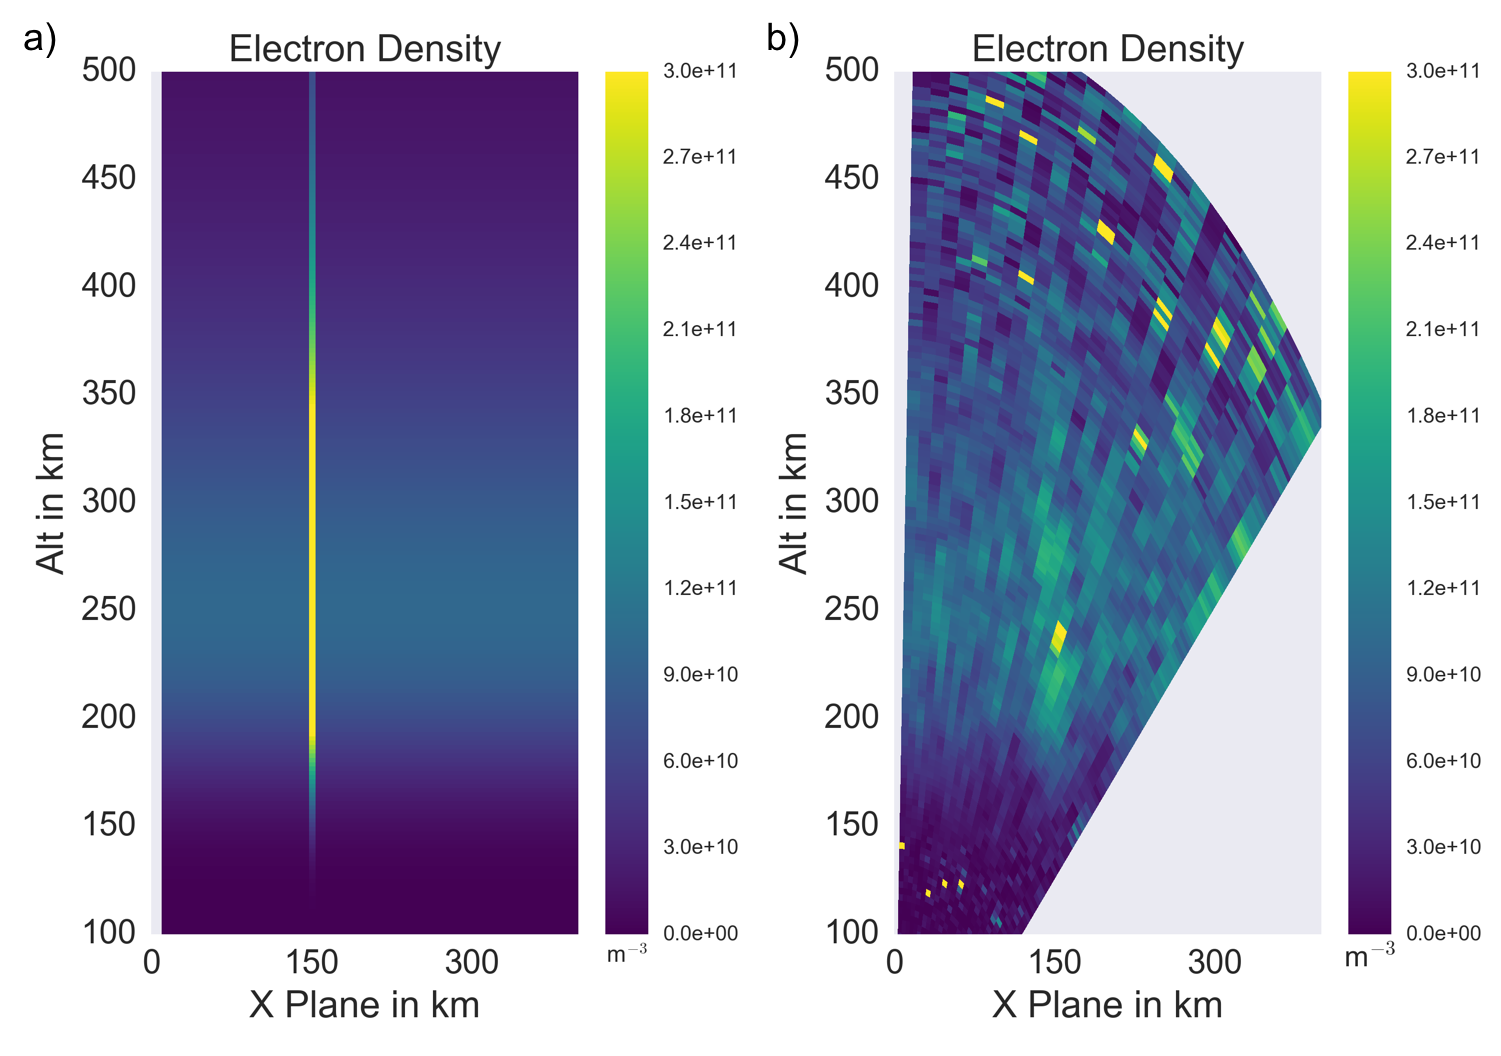
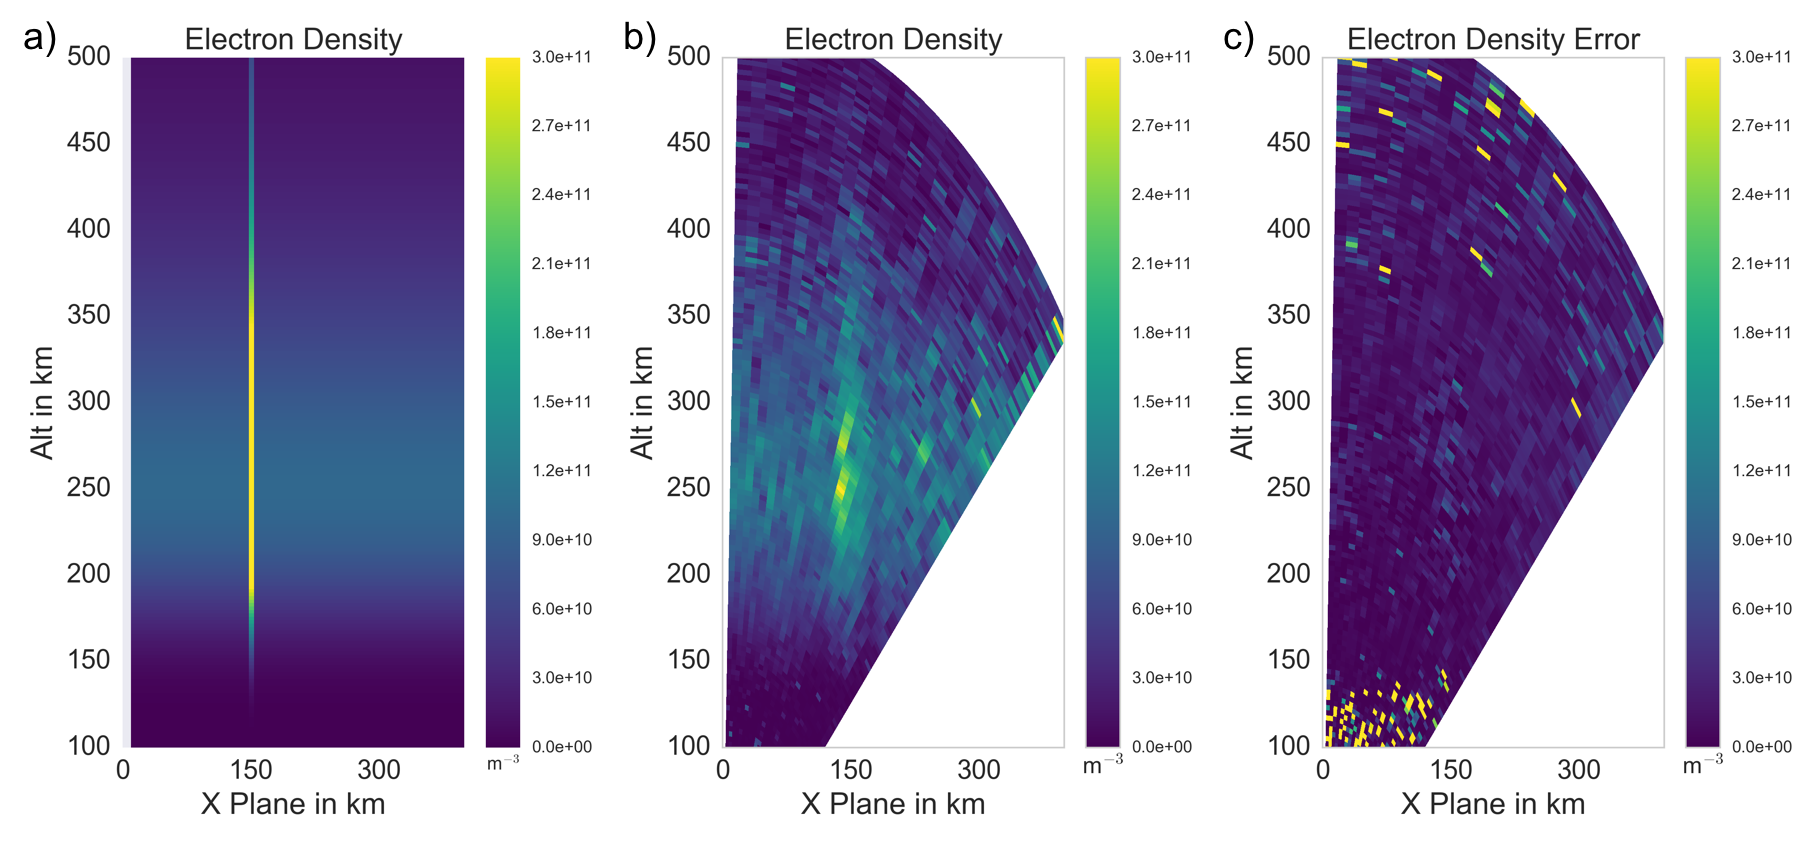
Got through initial comments

diff --git a/ISRError.tex b/ISRError.tex
@@ -499,15 +499,15 @@ An important aspect of experiment design is determining the observability of pla
 
 \begin{figure}[!t]
 \centering
-\includegraphics[width=6in]{backgroundandsamp}
+\includegraphics[width=4in]{backgroundandsamp}
 \caption{Contour of background $N_e$ for simulations and the spatial sampling pattern}
 \label{fig:background1}
 \end{figure}
 
 %For these simulations we want to show how ambiguities could arise when trying to image just simple electron density enhancements with the beam pattern shown in the right panel of Figure \ref{fig:background1},
-For these simulations we explore how a thin density enhancement is resolved with a radar beam pattern shown in the right panel of Figure \ref{fig:background1}, where each dot is a range gate in one of the 25 beams used. This thin density enhancement is 2 km in width and enhances the density by 5 times the background at its altitude. The enhancement is at the resolution limit of the original Cartesian grid, a delta function in the x direction. The results of a single realization of our simulation are seen in Figure \ref{fig:stationaryall} using a 15 second and 60 second integration time, 60 and 240 pulses per position respectively. The different integration times show that, although the enhancement is blurred, the variance of the measurement can impact the quality of the reconstruction because of the inherent noise quality of the signal.
+For these simulations we explore how a thin density enhancement is resolved with a radar beam pattern shown in the right panel of Figure \ref{fig:background1}, where each dot is a range gate in one of the 25 beams used. This thin density enhancement is 2 km in width and enhances the density by 5 times the background at its altitude. The enhancement is at the resolution limit of the original Cartesian grid, a delta function in the x direction. The results of a single realization of our simulation are seen in Figure \ref{fig:stationaryall} using a 15 second and 60 second integration time, 60 and 240 pulses per position respectively. The different integration times show that, although the enhancement is blurred, the variance of the measurement can impact the quality of the reconstruction because of the inherent noise quality of the signal. The expected errors for both of the reconstructions can be seen in \ref{fig:errorstationaryall}. As expected the estimated errors show the uncertainties for the case with less pulses to be larger. 
 
-{\bf JOHN: you need to quantify the variance for Fig 7b and 7c.  Does it scale as expected given the known pulse counts J?  In other words, could I have predicted this without the simulator just using eq (9) for example as my knowledge of covariance?  Is the simulator telling us something new here?  What is it?  Are the results here totally dependent on this particular case study, or can you generalize at all?}
+Because we know the input parameters we can do a quick comparison using the root mean squared error (RMSE) for each case. If we comparing the RMSE between the 15 and 60 second integration cases we find that the ratio between the two is approximately 5.40. The expect RMSE ratio between the two should be about 2 because the variance of the ACFs scales as $1/\sqrt{J}$, where $J$ is the number of pulses. If we instead median instead of a mean operator in the error calculation this ratio becomes 1.55 which is some what more in line with what is expected.
 
 \begin{figure}[!t]
 \centering
@@ -516,22 +516,19 @@ For these simulations we explore how a thin density enhancement is resolved with
 \label{fig:stationaryall}
 \end{figure}
 
-The blurring effect seen in this case study is not constant throughout the space due to the way the radar samples the space. This is illustrated in Figures \ref{fig:moving10mins} and \ref{fig:moving14mins}, where as the enhancement moves through the scene, its apparent size is affected by the orientation of the radar beams. As the enhancement becomes parallel to the radar beams then the shape in the reconstruction becomes smaller along the x-axis, as the range ambiguity is much larger than the cross range ambiguity from the beam pattern. To see the input and output electron density change with time see Movies S1 and S2.
-
-In
-
 \begin{figure}[!t]
 \centering
-\includegraphics[width=5in]{Errorstationary}
-\caption{Standard deviations from Figure \ref{fig:stationaryall} calculated in two different ways. a)  Estimate from fit for 15 second integration example. b) Estimate from fit for 60 second integration example. c) Estimate from sample variance calculation for 15 second integration example. d) Estimate from sample variance calculation for 60 second integration example.}
+\includegraphics[width=4in]{Errorstationary}
+\caption{Standard deviations from Figure \ref{fig:stationaryall}. a)  Estimate from fit for 15 second integration example. b) Estimate from fit for 60 second integration example.}
 \label{fig:errorstationaryall}
 \end{figure}
 
+The blurring effect seen in this case study is not constant throughout the space due to the way the radar samples the space. This is illustrated in Figures \ref{fig:moving10mins} and \ref{fig:moving14mins}, where as the enhancement moves through the scene, its apparent size is affected by the orientation of the radar beams. As the enhancement becomes parallel to the radar beams then the shape in the reconstruction becomes smaller along the x-axis, as the range ambiguity is much larger than the cross range ambiguity from the beam pattern. To see the input and output electron density change with time see Movies S1 and S2.
 
 \begin{figure}[!t]
 \centering
 \includegraphics[width=6in]{moving6mins}
-\caption{Results of moving enhancement simulation at 600 seconds. a) Input $N_e$. b) Output of simulator with 60 second integration.}
+\caption{Results of moving enhancement simulation at 600 seconds. a) Input $N_e$. b) Output of simulator with 60 second integration. c) Estimated errors from fit.}
 \label{fig:moving10mins}
 \end{figure}
 
@@ -539,32 +536,30 @@ In
 \begin{figure}[!t]
 \centering
 \includegraphics[width=6in]{moving14mins}
-\caption{Results of moving enhancement simulation at 840 seconds. a) Input $N_e$. b) Output of simulator with 60 second integration.}
+\caption{Results of moving enhancement simulation at 840 seconds. a) Input $N_e$. b) Output of simulator with 60 second integration. c) Estimated errors from fit.}
 \label{fig:moving14mins}
 \end{figure}
 
 This change in the shape of the enhancement can give the impression that its morphology has developed as it was moving through the field of view of the radar. This could lead to an incorrect interpretation of the physical process taking place. Thus one must be careful when analyzing these sorts of reconstructions.
 
-Lastly, for this type of simulation, we show an example to demonstrate the situation where a set of two different input parameters can yield qualitatively similar results. For these cases we create electron density enhancements similar in size as what is seen in \citet{Semeter:2005fo} from a poleward boundary intensification event. The inputs can be seen in Figure \ref{fig:moving1018in} which have enhancements of 10 km width and 18 km width. The enhancement in the 10 km width example is 6 times higher than the background while the 18 km width enhancement is 3 times higher than the background. Looking at the fitted data in Figure \ref{fig:moving1018fit} \pcom{weak - strengthen the statement}{one can see that they seem rather similar} and its difficult to disambiguate the actual sizes of the enhancements. For the full input electron density changing with time for the 10 km example with time see Movie S3 and for the fitted data S4. The 18 km case can be seen in Movies S5 and S6 for input and fitted parameters respectively.  
-
-{\bf JOHN: again, you need to quantify expected variance here so that the reader is convinced something real is happening.  All these statements are qualitative.  It would also be good to have more conclusions so the reader can judge the value of this simulator to provide information - i.e. would I have been able to see this feature without ISR's statistical nature?  How much do these case results depend on radar beam sampling, and how much do they depend on ISR statistical behavior? I haven't edited the language as much above since it will likely change given these needs.}
+Lastly, for this type of simulation, we show an example to demonstrate the situation where a set of two different input parameters can yield qualitatively similar results. For these cases we create electron density enhancements similar in size as what is seen in \citet{Semeter:2005fo} from a poleward boundary intensification event. The inputs can be seen in Figure \ref{fig:moving10all} which have enhancements of 10 km width and 18 km width. The enhancement in the 10 km width example is 6 times higher than the background while the 18 km width enhancement is 3 times higher than the background. Looking at the fitted data in Figure \ref{fig:moving18all} \pcom{weak - strengthen the statement}{one can see that they seem rather similar} and its difficult to disambiguate the actual sizes of the enhancements. For the full input electron density changing with time for the 10 km example with time see Movie S3 and for the fitted data S4. The 18 km case can be seen in Movies S5 and S6 for input and fitted parameters respectively.  
 
 \begin{figure}[!t]
 \centering
-\includegraphics[width=6in]{moving10km18kminputs}
-\caption{Input $N_e$ for moving enhancement simulation at 480 seconds. a) 10 km wide enhancement. b) 18 km wide enhancement.}
-\label{fig:moving1018in}
+\includegraphics[width=6in]{moving10kminouterr}
+\caption{10 km wide enhancement moving simulation at 480 seconds. a) Input $N_e$. a)  b) Fitted $N_e$ with 60 second integration. c) Estimated error from fit.}
+\label{fig:moving10all}
 \end{figure}
 
 \begin{figure}[!t]
 \centering
-\includegraphics[width=6in]{moving10km18kmoutputs}
-\caption{Results of moving enhancement simulation at 480 seconds with 60 second integration. a) 10 km wide enhancement. b) 18 km wide enhancement.}
-\label{fig:moving1018fit}
+\includegraphics[width=6in]{moving18kminouterr}
+\caption{18 km wide enhancement moving simulation at 480 seconds. a) Input $N_e$. a)  b) Fitted $N_e$ with 60 second integration. c) Estimated error from fit.}
+\label{fig:moving18all}
 \end{figure}
 
 \subsection{Full Parameter Experiment}
-Finally, plasma parameters derived from a multi-fluid model developed in \cite{semeter:plasmatransport2012} are used to drive the simulator. The specific example was originally used in \cite{Perry:2015jf} and was designed for comparison to  measurements from \pcom{acronym defined?}{RISR-N}. Images of the plasma parameters can be seen in Figures \ref{fig:plparamst0} and \ref{fig:plparamst60}. These enhancements in electron density, temperature and ion temperature are caused by an auroral arc created from a Region 1 field aligned current system of amplitude .875 $\mu$A/m$^2$, which moves through the field of view at 200 m/s.
+Finally, plasma parameters derived from a multi-fluid model developed in \cite{semeter:plasmatransport2012} are used to drive the simulator. The specific example was originally used in \cite{Perry:2015jf} and was designed for comparison to measurements from the Resolute Bay Incoherent Scatter Radar. Images of the plasma parameters can be seen in Figures \ref{fig:plparamst0} and \ref{fig:plparamst60}. These enhancements in electron density, temperature and ion temperature are caused by an auroral arc created from a Region 1 field aligned current system of amplitude .875 $\mu$A/m$^2$, which moves through the field of view at 200 m/s.
 
 
 
@@ -584,20 +579,11 @@ Finally, plasma parameters derived from a multi-fluid model developed in \cite{s
 
 Using a beam pattern similar to the one seen in the right panel of Figure \ref{fig:background1}, we use the ISR simulator to explore how an electronically scanned ISR may reconstruct the scene. This a best case condition, as we have apriori knowledge of the plane that the arc is traveling in, and have set up the radar spatial beam pattern for the experiment to take advantage of this knowledge. This feature reduces the number of radar beams and required integration time to gain the desired statistics. 
 
-\pcom{I would plot the composition curve!}{It is also assumed that the ratios between ion species are known.} \pcom{see comment below - reword.}{This is a common practice in ISR fitting as allowing the ratios to be free parameters allows for non-unique solutions.} If the fixed, apriori assumed composition ratios between the different ion species are incorrect, this can lead to errors in the final parameter estimates. For the lower F region ionosphere, generally this usually leads to errors between 150-250 km where the ionosphere changes from NO$^+$ dominated to O$^+$ dominated. \pcom{awkward - reword}{This issue does come into play in this case, chemical recombination is cited as an effect in \citet{Perry:2015jf} and could be impacting the final parameter fitting. \citep{Zettergren:2011ej, Blelly:2010gf}}
+It is also assumed that the ratios between ion species are known. This is a common practice in ISR fitting as allowing the ratios to be free parameters can allow for non-unique solutions depending on the ion species that are present. If the fixed, apriori assumed composition ratios between the different ion species are incorrect, this can lead to errors in the final parameter estimates. For the lower F region ionosphere, generally this usually leads to errors between 150-250 km where the ionosphere changes from NO$^+$ dominated to O$^+$ dominated \citep{Zettergren:2011ej, Blelly:2010gf}. Another aspect from this specific case as the field aligned current passes through this creates an influx of  NO$^+$ in the cross over region for this simulation \citet{Perry:2015jf} .
 
-{\bf JOHN: it is not always the case that allowing ion composition to vary causes non-unique solutions!  This is dangerous to imply.  For example, we let H+ and He+ vary all the time in the topside ionosphere and, with the right temperature constraint, it works.  It is completely situation dependent.}
+The output of the STISRS from the parameters can be seen in Figure \ref{fig:fplparamst60} and in Movie S8. The integration is started at $t=960$ s into the simulation with the plasma parameters shown in seen in Figure \ref{fig:plparamst60}. The full set of plasma parameters over time can be seen in Movie S7. For this case, a 60 second integration time is used, which for the 27 beam radar experiment set up gives 255 pulses per position. Lastly the expected errors from the fit can be seen Figure \ref{fig:fplparamst60err}.
 
-%\begin{figure}[!t]
-%\centering
-%\includegraphics[width=1.5in]{mattsimbeams}
-%\caption{Spatal sampling pattern for ISR.}
-%\label{fig:samp2}
-%\end{figure}
-
-The output of the ISR simulator from the parameters can be seen in Figure \ref{fig:fplparamst60} and in Movie S8. The integration is started at $t=960$ s into the simulation with the plasma parameters shown in seen in Figure \ref{fig:plparamst60}. The full set of plasma parameters over time can be seen in Movie S7. For this case, a 60 second integration time is used, which for the 27 beam radar experiment set up gives 255 pulses per position. We highlight several features in the fitted results.  First, enhancements in electron and ion temperature are clearly visible. Second, we examine whether the cavity in electron density that is formed is also visible. These types of cavities are signs of downward current flow and there has been a question (REF?) as to whether these could be observed well with ISR systems \pcom{awkward-reword}{due to their defining feature being an evacuations of electrons, thus reducing the return power from the scattered signal}. The image in \ref{fig:fplparamst60} shows the best case of finding this cavity with this beam pattern, as at this time the cavity is close to perpendicular with one of the beams. \pcom{very qualitative - reword/clarify}{For the other cases where the beams are not well aligned with the cavity it becomes much more difficult to observe it as the range ambiguity "fills in" the evacuation.}
-
-{\bf JOHN: You don't give any uncertainties on the final fit parameters.  So it's really hard for me to judge whether the features you are describing are statistically significant.  You have a full simulator that can gauge these uncertainties, so I think that needs to be included here.  Also, for the final paragraph, more clarity is needed: what is the simulation telling you that helps with radar design?  It's probably in there, but needs to be more clearly brought out.}
+We highlight several features in the fitted results. First, enhancements in electron and ion temperature are clearly visible and well above the expected error. Second, we examine whether the cavity in electron density that is formed is also visible. These types of cavities are signs of downward current flow and there has been a question (REF?) as to whether these could be observed well with ISR systems \pcom{awkward-reword}{due to their defining feature being an evacuations of electrons, thus reducing the return power from the scattered signal}. The image in \ref{fig:fplparamst60} shows the best case of finding this cavity with this beam pattern, as at this time the cavity is close to perpendicular with one of the beams. \pcom{very qualitative - reword/clarify}{For the other cases where the beams are not well aligned with the cavity it becomes much more difficult to observe it as the range ambiguity "fills in" the evacuation.}
 
 %% Fitted Data
 
@@ -608,16 +594,19 @@ The output of the ISR simulator from the parameters can be seen in Figure \ref{f
 \label{fig:fplparamst60}
 \end{figure}
 
-
+\begin{figure}[!t]
+\centering
+\includegraphics[width=6in]{0960_60_int_err}
+\caption{Estimated errors from fitted Plasma Parameters at $t=960$ s with 60 second integration.}
+\label{fig:fplparamst60err}
+\end{figure}
 %%%%%%%%%%%%%%%%%%%%%%%%%%%%%%%%%%%%%%%%%%%%%%%%%%%%%%%%%%%%%%%%%%%%%%%%%%%%%%%%%%%%%%%%%%
 \section{Conclusion}
-We have constructed a simulation of the full ISR measurement process, incorporating ESA radar capabilities and the full radar space-time ambiguity along with inherent ISR error sources.  Possible uses for the simulator in the research community have also been discussed and examples have been shown. These examples show how one can use the simulator to create large statistical data sets and also to more optimally design ionospheric radar experiments in the ISR space within the inherently large number of free parameters afforded by the radar control parameters.
+We have constructed a simulation of the full ISR measurement process, incorporating ESA radar capabilities and the full radar space-time ambiguity along with inherent ISR error sources, referred to as STISRS. Possible uses for STISRS in the research community have also been discussed and examples have been shown. These examples show how one can use the simulator to create large statistical data sets and also to more optimally design ionospheric radar experiments in the ISR space within the inherently large number of free parameters afforded by the radar control parameters. 
 
 Development of the simulator will continue by adding new radar waveform modes, as currently only \pcom{Barker codes are not defined here}{Barker Code} and uncoded single pulse modulations are available at this time. The simulator can also be used to create synthetic data for traditional single antenna based systems as well. Other possible expansions of the simulator include capability to calculate returns from each receiver element in a ESA based ISR system, such as the planned architecture of EISCAT-3D, and multi-static radar capabilities. These future additions will increase the simulator's value to designers who wish to more optimally exploit the capabilities of new systems. 
 
-A more immediate application of this simulator can aid researchers in experiment planning. There are a number of phenomena  that change on very small spatio-temporal scales, e.g. at high latitudes, and capturing observations of them would greatly benefit from optimization of the experiment set up. The ability of the simulator to directly create complex receiver voltage data provides a significant and novel capability, \pcom{which ones?? confused}{as some phenomena can only be observed at this data level.} By releasing this simulation to the community, we hope that other researchers can find utility in it as they plan experiments or to understand observed radar data. 
-
-{\bf JOHN: this conclusion needs more 'punching up' and emphasis on what is new and significant about the simulator capabilities, both to get credit for yourself and to encourage its use by the community.  Focus more on what is truly new.}
+A more immediate application of this simulator can aid researchers in experiment planning. There are a number of phenomena that change on very small spatio-temporal scales, e.g. at high latitudes, and capturing observations of them would greatly benefit from optimization of the experiment set up. Researchers would be able iterate through different set ups for their experiments instead only being able to pick one just hope for the best. The ability of STISRS to directly create complex receiver voltage data provides a significant and novel capability, as some phenomena, such as those that have time scales on the order of an interpulse period, can only be observed at this data level. By releasing this simulation to the community, we hope that other researchers can find utility in it as they plan experiments or to understand observed radar data. 
 
 %%%%%%%%%%%%%%%%%%%%%%%%%%%%%%%%%%%%%%%%%%%%%%%%%%%%%%%%%%%%%%%%%%%%%%%%%%%%%%%%%%%%%%%%%%
 \begin{acknowledgments}
